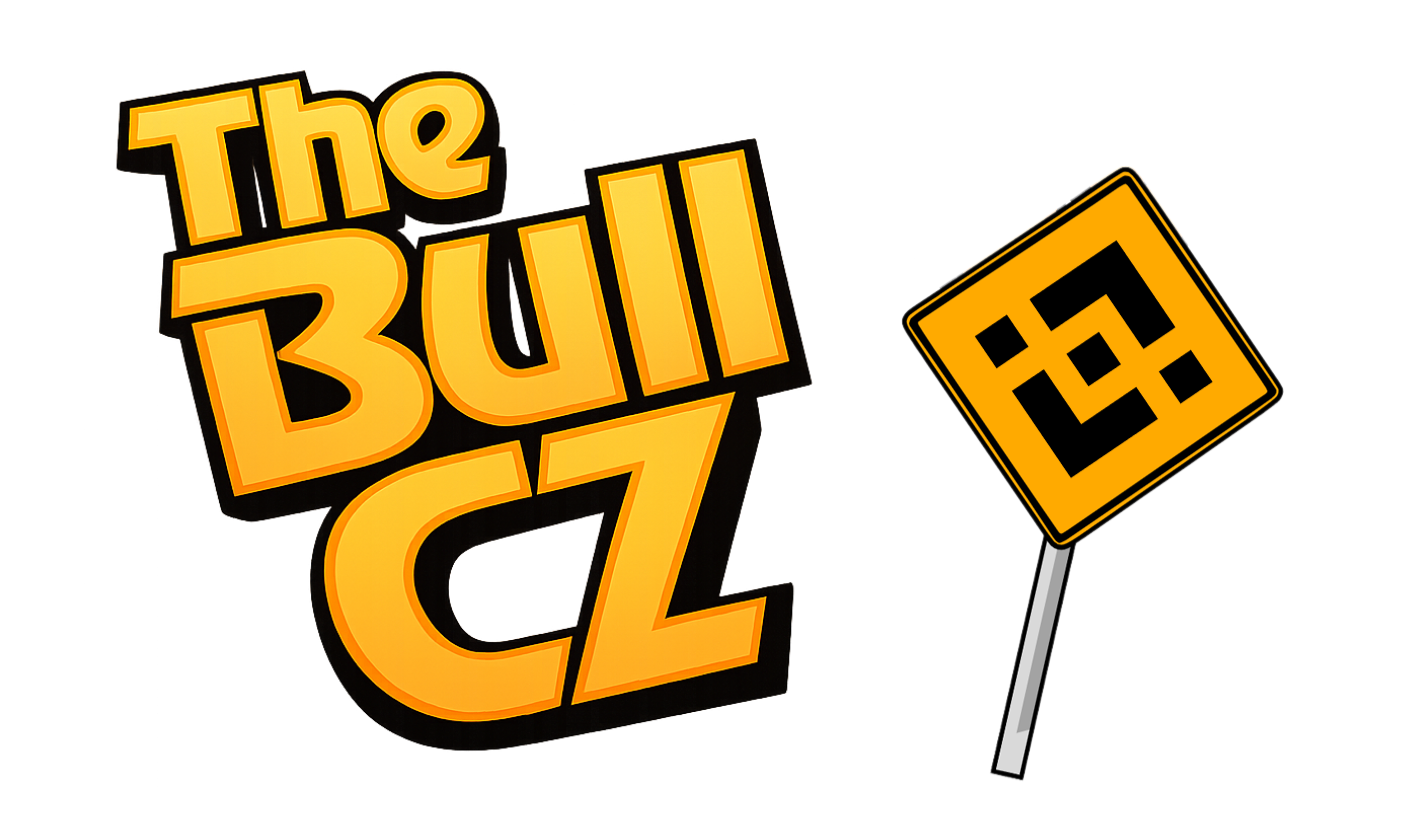
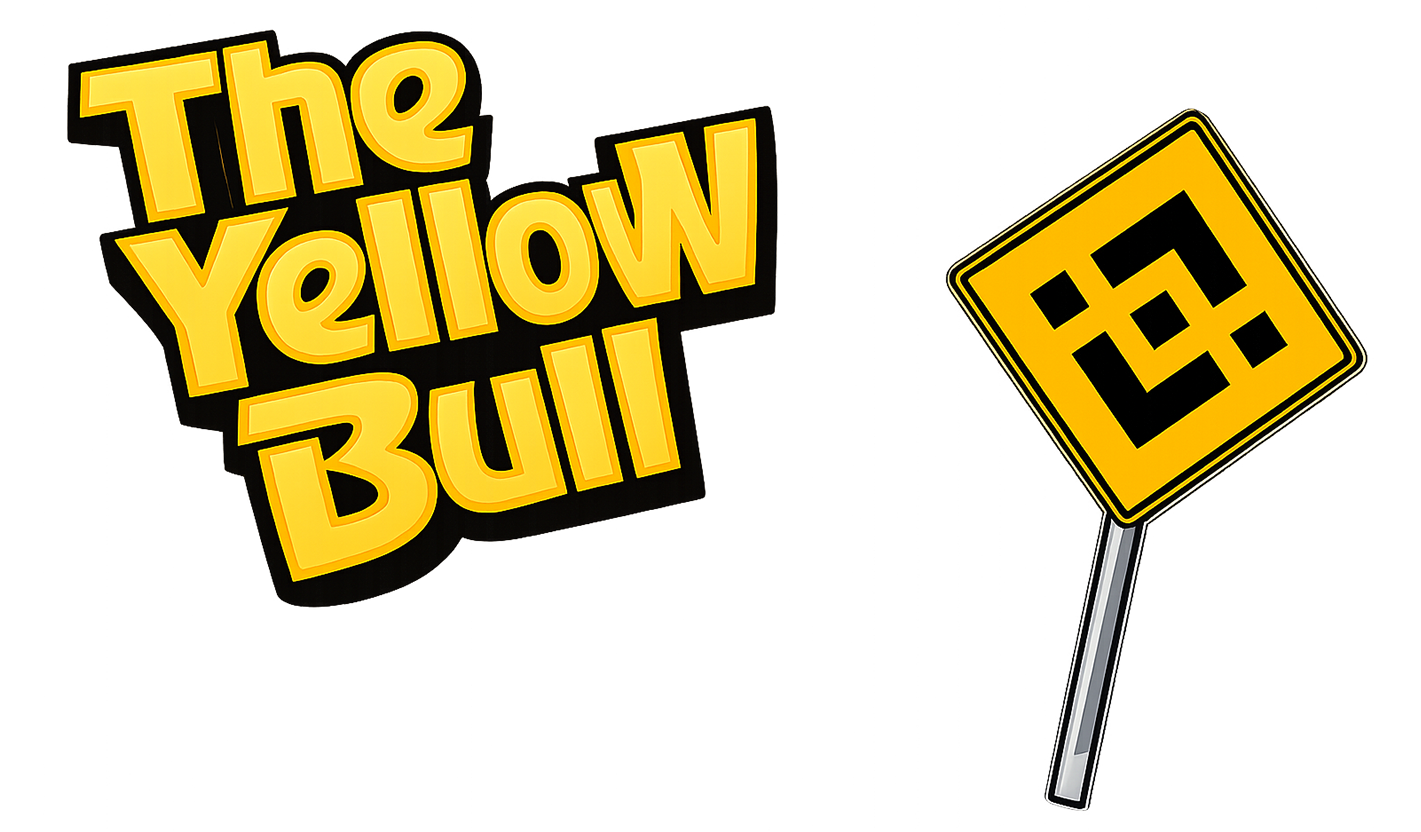
update

diff --git a/index.html b/index.html
@@ -1,7 +1,7 @@
 <!DOCTYPE html>
 <html lang="en">
   <head>
-    <title>The Bull | $CZ</title>
+    <title>The Yellow Bull | $CZ</title>
     <meta charset="UTF-8" />
     <meta name="format-detection" content="telephone=no" />
     <style>
@@ -69,7 +69,7 @@
             <div class="header__actions" data-da=".menu__body, 767.98">
               <div class="header__social">
                 <a
-                  href="https://x.com/thebullcz"
+                  href="https://x.com/yellowbullcz"
                   target="_blank"
                   class="header__social-item"
                 >
@@ -87,7 +87,7 @@
                   </svg>
                 </a>
                 <a
-                  href="https://t.me/thebullcz"
+                  href="https://t.me/yellowbullcz"
                   target="_blank"
                   class="header__social-item"
                 >
@@ -127,12 +127,12 @@
           <div class="hero__container">
             <div class="hero__content">
               <h1 class="hero__title">
-                <img src="img/HeroTitle.png" alt="The Bull" />
+                <img src="img/HeroTitle.png" alt="The Yellow Bull" />
               </h1>
               <div class="hero__actions">
                 <div class="hero__social">
                   <a
-                    href="https://x.com/thebullcz"
+                    href="https://x.com/yellowbullcz"
                     target="_blank"
                     class="hero__social-item"
                   >
@@ -152,7 +152,7 @@
                     </span>
                   </a>
                   <a
-                    href="https://t.me/thebullcz"
+                    href="https://t.me/yellowbullcz"
                     target="_blank"
                     class="hero__social-item"
                   >
@@ -555,7 +555,7 @@
               </a>
               <div class="join__social">
                 <a
-                  href="https://x.com/thebullcz"
+                  href="https://x.com/yellowbullcz"
                   target="_blank"
                   class="join__social-item"
                 >
@@ -587,7 +587,7 @@
                   </span>
                 </a>
                 <a
-                  href="https://t.me/thebullcz"
+                  href="https://t.me/yellowbullcz"
                   target="_blank"
                   class="join__social-item"
                 >